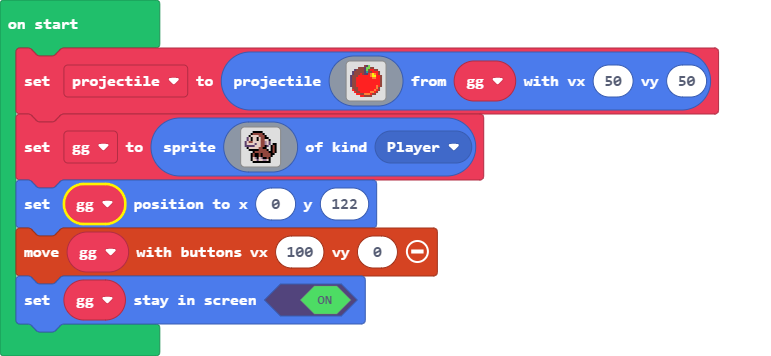
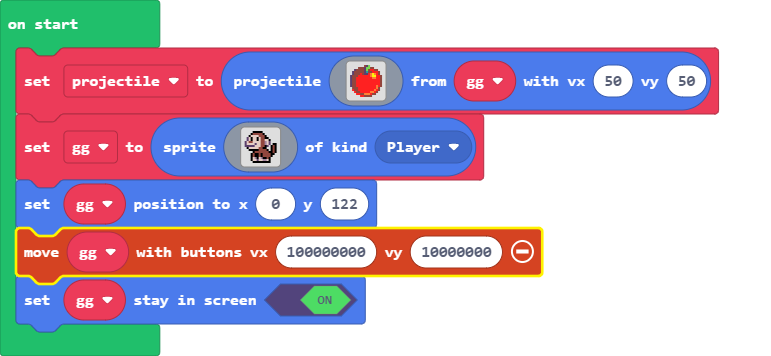
Update main.blocks, main.ts

Changed region(s): [[0.0, 0.5253, 0.716, 0.8034], [0.0934, 0.4944, 0.1556, 0.5253]]

diff --git a/main.ts b/main.ts
@@ -36,5 +36,5 @@ gg = sprites.create(img`
     . . . . f f f f f f f f f . . . 
     `, SpriteKind.Player)
 gg.setPosition(0, 122)
-controller.moveSprite(gg, 100, 0)
+controller.moveSprite(gg, 100000000, 10000000)
 gg.setStayInScreen(true)
